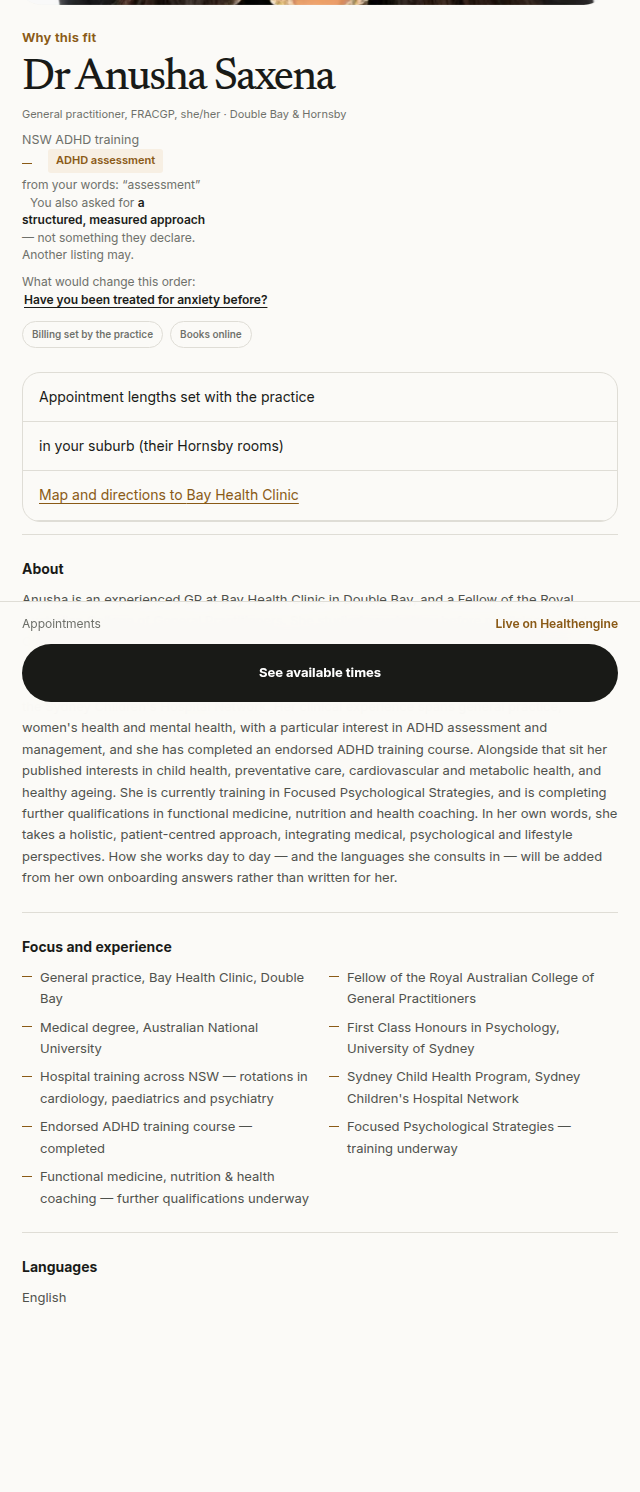
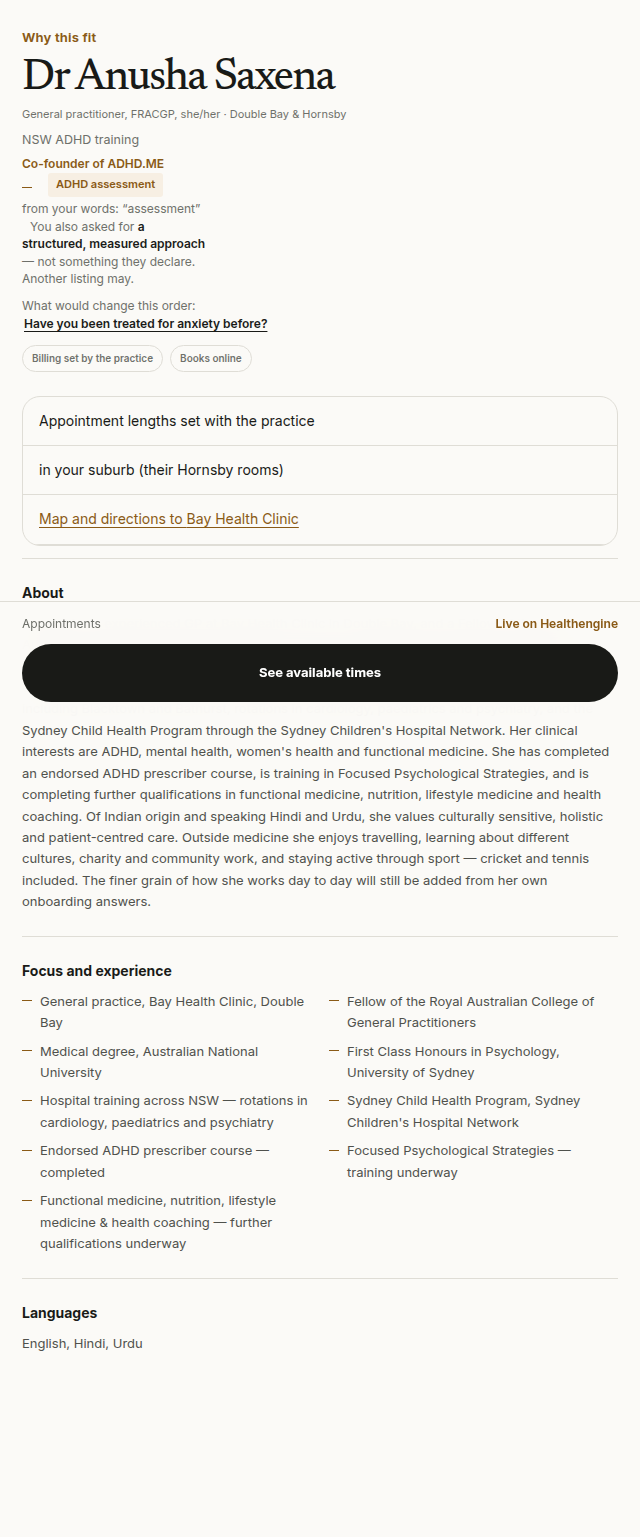
O89: Dr Anusha's co-founder disclosure, with the price disclosure carries.
Founder-directed (2026-08-20): her entry gains founderInterest with the
register's own wording - she appears in a directory her own company
operates, and a reader cannot see the ranking that put her there - which
renders the existing one-line disclosure on her profile. The standing law
is not waived for a second founder: at an exact tie she now sorts behind
an undisclosed clinician, the disclosure test covers the pair in both
directions (Dr Yadav stays undefined because nothing was directed for
him), and the not-floated pin tightens from naming one founder to the
property itself - on a request that separates nobody, the top spot goes
to a clinician without an interest in this product. All 741 roster and
matching tests hold under the widened tie-break with no pinned ranking
flipped.

Vault log skipped: Stefan-Brain is unreachable from this environment.

Changed region(s): [[0.0312, 0.0, 0.9688, 0.8941], [0.5312, 0.6475, 0.9375, 0.7708]]

diff --git a/src/demo/clinicians.test.ts b/src/demo/clinicians.test.ts
@@ -50,13 +50,17 @@ describe("clinician roster and matching", () => {
    * because the reader cannot see the ranking. The disclosure is required to exist on the record
    * and to name the interest — not merely to be a non-empty string.
    */
-  it("discloses the founder interest on the founder's own listing", () => {
-    const saxena = clinicians.find((clinician) => clinician.id === "anubhav-saxena")!;
-
-    expect(saxena.founderInterest).toMatch(/co-founder/i);
-    expect(saxena.founderInterest).toMatch(/ADHD\.ME/);
-
-    for (const clinician of clinicians.filter((c) => c.id !== "anubhav-saxena")) {
+  it("discloses the founder interest on every founder's own listing, and nobody else's", () => {
+    // O89: two founders on the roster now, both directed onto the record by the founder
+    // (Dr Anubhav from the start; Dr Anusha 2026-08-20). The register carries exactly what
+    // was directed — Dr Yadav carries no interest because none was declared for him.
+    const FOUNDERS = ["anubhav-saxena", "anusha-saxena"];
+    for (const id of FOUNDERS) {
+      const founder = clinicians.find((clinician) => clinician.id === id)!;
+      expect(founder.founderInterest, id).toMatch(/co-founder/i);
+      expect(founder.founderInterest, id).toMatch(/ADHD\.ME/);
+    }
+    for (const clinician of clinicians.filter((c) => !FOUNDERS.includes(c.id))) {
       expect(clinician.founderInterest).toBeUndefined();
     }
   });
@@ -69,10 +73,15 @@ describe("clinician roster and matching", () => {
    * that names nothing either of them is weighted for, the tie has to break somewhere other than
    * the founder.
    */
-  it("does not float the founder to the top of an unspecific request", () => {
+  it("does not float any disclosed founder to the top of an unspecific request", () => {
     const generic = "I think I might have ADHD and I would like an assessment";
 
-    expect(rankClinicians(generic)[0]!.id).not.toBe("anubhav-saxena");
+    // O89: with two of three roster entries now disclosed, the property tightens — on a
+    // request that separates nobody, the top spot must go to a clinician WITHOUT an
+    // interest in this product, because the tie-break exists to spend ties against the
+    // house, never for it.
+    const first = rankClinicians(generic)[0]!;
+    expect(first.founderInterest, first.id).toBeUndefined();
   });
 
   /**

diff --git a/src/demo/clinicians.ts b/src/demo/clinicians.ts
@@ -423,8 +423,15 @@ export const clinicians: Clinician[] = [
       practitionerId: "160121",
       url: "https://healthengine.com.au/doctor/nsw/double-bay/dr-anusha-saxena/p160121",
     },
-    keywords: ["adhd", "assessment", "mental health", "psychology", "psychiatry", "women", "woman", "female", "paediatrics", "children", "child", "family", "double bay", "eastern suburbs", "hornsby", "depression", "anxiety", "mood", "lifestyle", "nutrition", "holistic", "functional medicine", "health coaching", "preventative", "prevention", "gut health", "metabolic", "cardiovascular", "healthy ageing", "weight", "hindi", "urdu", "indian", "south asian", "culture", "cultural", "patient-centred"],
+    keywords: ["adhd", "assessment", "mental health", "psychology", "psychiatry", "women", "woman", "female", "paediatrics", "children", "child", "family", "double bay", "eastern suburbs", "hornsby", "depression", "anxiety", "mood", "lifestyle", "nutrition", "holistic", "functional medicine", "health coaching", "preventative", "prevention", "gut health", "metabolic", "cardiovascular", "healthy ageing", "weight", "hindi", "urdu", "indian", "south asian", "culture", "cultural", "patient-centred", "founder"],
     realPerson: true,
+    // O89 (founder-directed 2026-08-20: "Add Anusha as cofounder on the page"). The same
+    // law that governs her co-founder's entry governs hers: the disclosure exists because
+    // a reader cannot see the ranking, and it carries the standing ranking COST — at an
+    // exact tie she now sorts behind an undisclosed clinician, and that cost is not
+    // waived for being the second founder to carry it.
+    founderInterest:
+      "Dr Anusha Saxena is a co-founder of ADHD.ME. Disclosed because she appears in a directory her own company operates, and a reader cannot see the ranking that put her there.",
   },
 ];
 

diff --git a/e2e/finder-flow.spec.ts b/e2e/finder-flow.spec.ts
@@ -70,9 +70,12 @@ test("a second consulting location is a fact the reader sees, with the distance 
   await expect(anubhavRow.getByText(/Beecroft & Double Bay, by telehealth/)).toBeVisible();
   await anubhavRow.screenshot({ path: "qa/location-o86/row-telehealth-pair.png" });
 
-  // The profile carries the same pair on its meta line.
+  // The profile carries the same pair on its meta line — and, since O89, her co-founder
+  // disclosure beside it: a material interest stated exactly where the listing is read.
   await anushaRow.click();
   await expect(page.getByText(/Double Bay & Hornsby/).first()).toBeVisible();
+  await expect(page.getByText("Co-founder of ADHD.ME")).toBeVisible();
+  await page.locator(".profile-content").screenshot({ path: "qa/founder-o89/profile-disclosure.png" });
   await page.locator(".profile-content").screenshot({ path: "qa/location-o85/profile-desktop.png" });
   await page.setViewportSize({ width: 390, height: 844 });
   await page.waitForTimeout(300);

diff --git a/docs/DESIGN-QA.md b/docs/DESIGN-QA.md
@@ -527,3 +527,17 @@ the O85 label carries it.
   profile and the map link his named practice.
 - [x] Founder-supplied fact, source cited in the entry comment (2026-08-20); the roster
   sweep resolves the pair through the gazetteer and focus areas like every location.
+
+## O89 — Dr Anusha's co-founder disclosure (2026-08-20)
+
+Captures: qa/founder-o89/ (her profile with the disclosure line). No new CSS — the
+existing .disclosure-line carries it, same position as her co-founder's.
+
+- [x] Honesty gates: a material interest is stated exactly where the listing is read, one
+  line, not an essay; the wording is the register's own ("appears in a directory her own
+  company operates, and a reader cannot see the ranking that put her there").
+- [x] The disclosure keeps its price: at an exact tie she now sorts BEHIND an undisclosed
+  clinician — the founder-behind rule is not waived for a second founder, and the
+  not-floated pin tightened to cover every disclosed founder on a generic request.
+- [x] Founder-directed fact, source cited in the entry comment; nobody else's status
+  changed, because nothing else was directed.

diff --git a/BUILD-STATE.md b/BUILD-STATE.md
@@ -130,7 +130,12 @@ Session logs still go to Stefan-Brain `wiki/_log/` (non-fatal if unavailable).
 > disclosure test updated to the PAIR (both name the interest; Dr Yadav stays undefined),
 > the founder-not-floated pin extended to every disclosed founder on the generic request,
 > rank pins re-verified under the new tie-break, e2e profile capture with the disclosure
-> line (qa/founder-o89) + DESIGN-QA entry, full `pnpm verify` green.
+> line (qa/founder-o89) + DESIGN-QA entry, full `pnpm verify` green. DONE 2026-08-20:
+> all of the above landed exactly as claimed — 741 roster+matching tests green under the
+> widened tie-break with no pinned ranking flipped, the not-floated pin tightened from
+> "not Dr Anubhav" to "no disclosed founder" (the tie-break exists to spend ties against
+> the house, never for it), e2e asserts the line renders on her profile, full verify
+> green (212 files, 3328 tests).
 
 > **O88 (founder-relayed — Dr Anusha Saxena's official bio, coded into her declarations) —
 > claimed and DONE 2026-08-20, interactive session (not a loop firing).** The founder supplied
